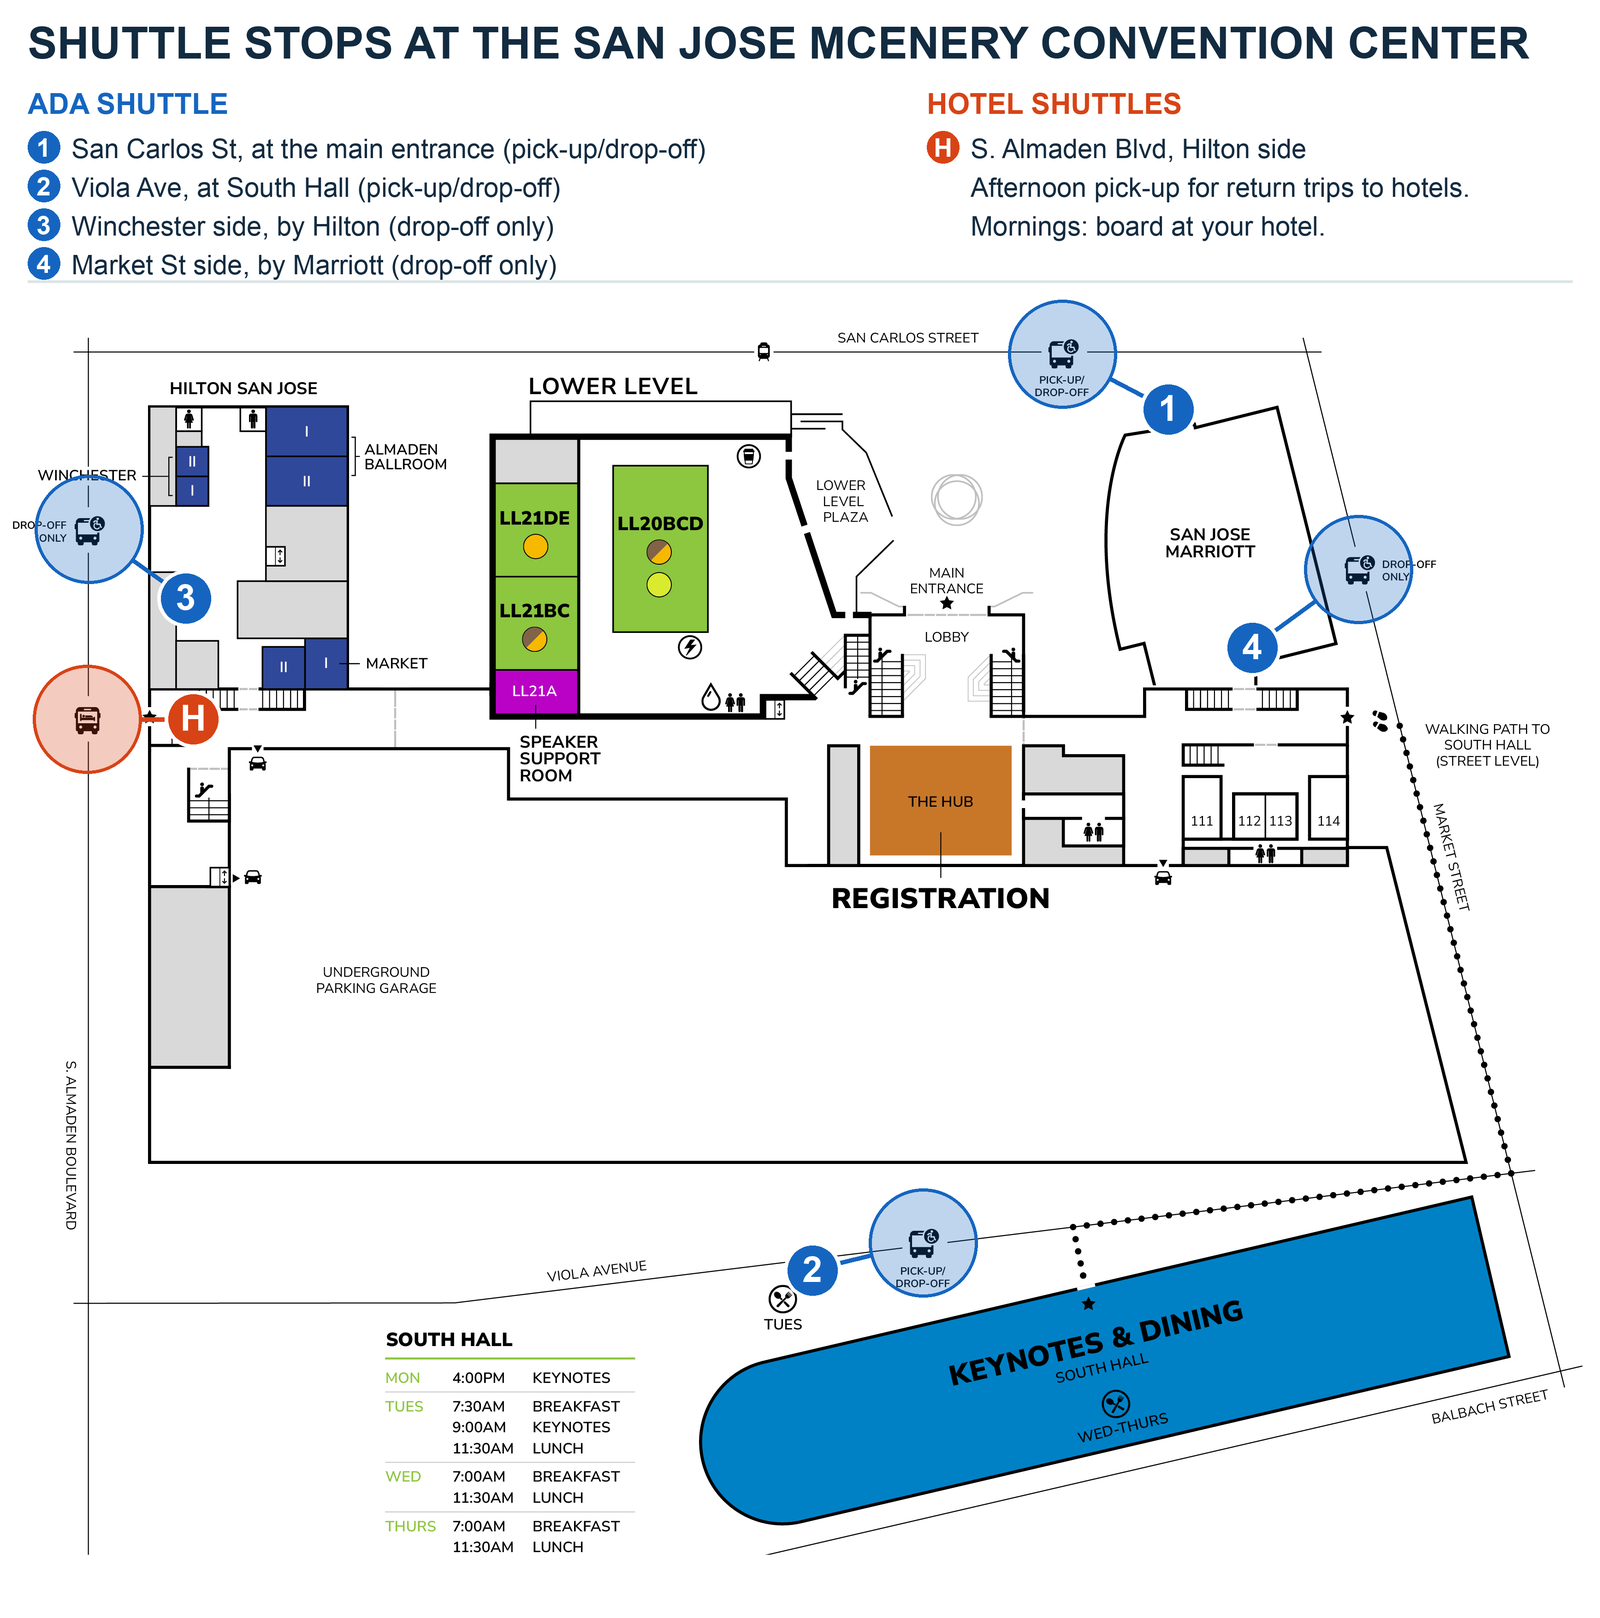
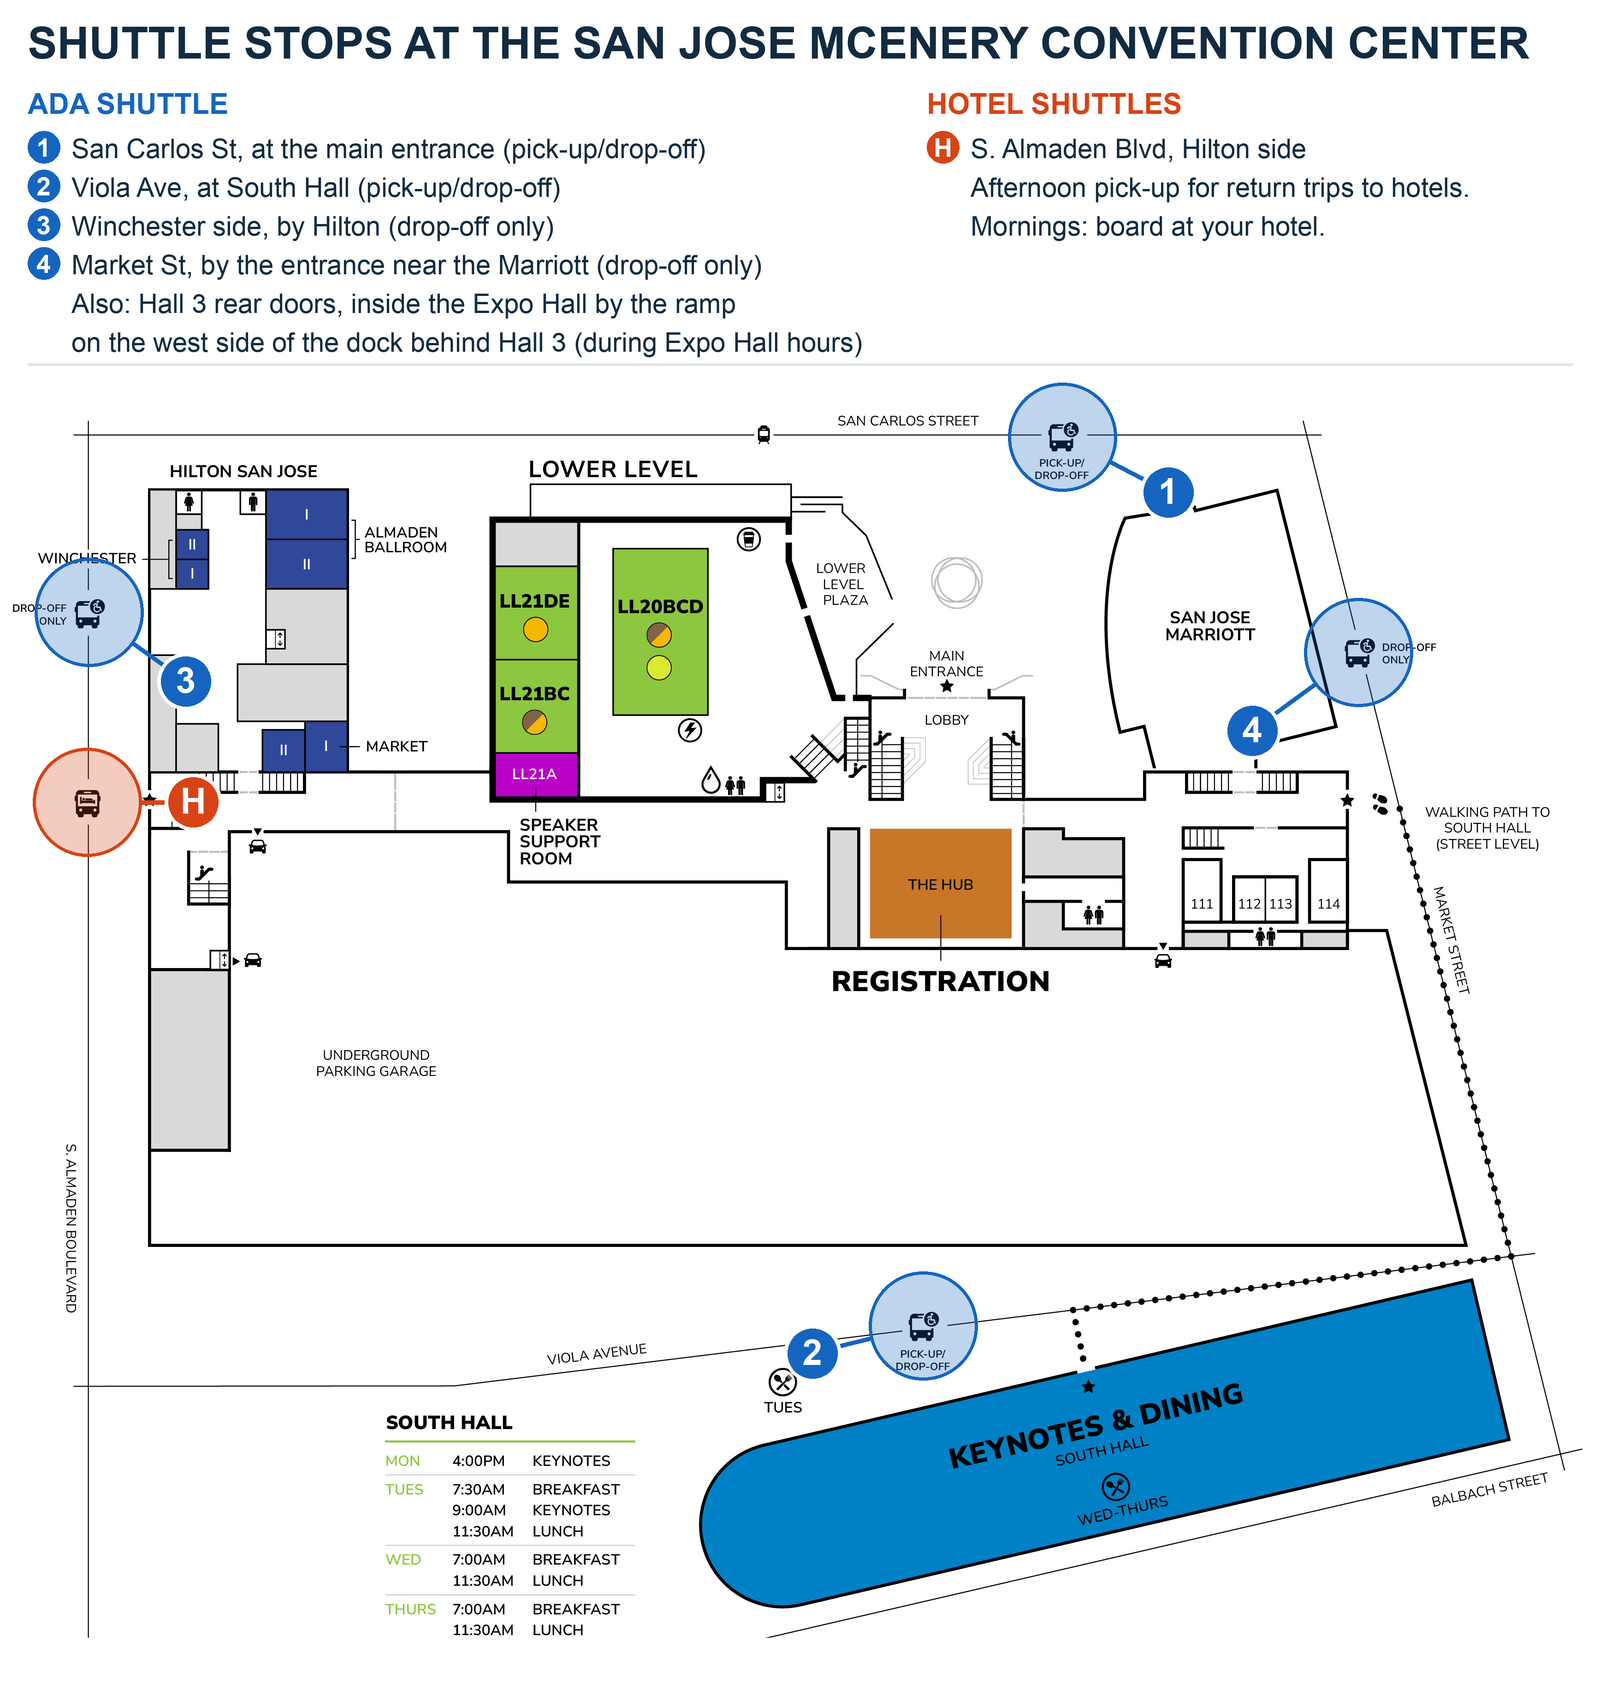
content(onsite-info): list Market St drop-off and locate Hall 3 rear doors stop
Per Heather: Market St (near the Marriott entrance) is an ADA drop-off
stop, and Hall 3 rear doors is inside the Expo Hall by the ramp on the
west side of the dock behind Hall 3. Stop list now references the map
numbers; map legend updated to match.

diff --git a/src/pages/content-pages/onsite-info.md b/src/pages/content-pages/onsite-info.md
@@ -71,7 +71,7 @@ Need help getting there? The free ADA shuttle runs from the main entrance (San C
 
 OCP runs two free shuttles: an **ADA shuttle** around the venue and **hotel shuttles** to and from partner hotels.
 
-![Map of shuttle stops around the San Jose McEnery Convention Center: ADA shuttle pick-up/drop-off on San Carlos St at the main entrance and on Viola Ave at South Hall, ADA drop-off only on the Winchester (Hilton) side and the Market St (Marriott) side, and hotel shuttles on S. Almaden Blvd (Hilton side)](ocp26g_shuttle-stops-map.png)
+![Map of shuttle stops around the San Jose McEnery Convention Center: ADA shuttle pick-up/drop-off on San Carlos St at the main entrance and on Viola Ave at South Hall, ADA drop-off only on the Winchester (Hilton) side and on Market St near the Marriott, and hotel shuttles on S. Almaden Blvd (Hilton side)](ocp26g_shuttle-stops-map.png)
 
 <a href="https://2026ocpglobal.fnvirtual.app/map/" target="_blank" rel="noopener noreferrer">VIEW THE FULL VENUE MAP</a>
 
@@ -87,11 +87,12 @@ OCP runs two free shuttles: an **ADA shuttle** around the venue and **hotel shut
   </tbody>
 </table>
 
-**Stops:**
+**Stops** (numbers match the map above):
 
-- San Carlos Street, in front of the main entrance
-- Viola Avenue, near South Hall
-- Hall 3 rear doors (during Expo Hall hours)
+- **1.** San Carlos Street, in front of the main entrance (pick-up/drop-off)
+- **2.** Viola Avenue, near South Hall (pick-up/drop-off)
+- **4.** Market Street, by the convention center entrance near the Marriott (drop-off only)
+- **Hall 3 rear doors** (during Expo Hall hours): inside the Expo Hall, by the ramp on the west side of the dock behind Hall 3
 
 ### Hotel shuttles (hotels ⇄ convention center)
 
